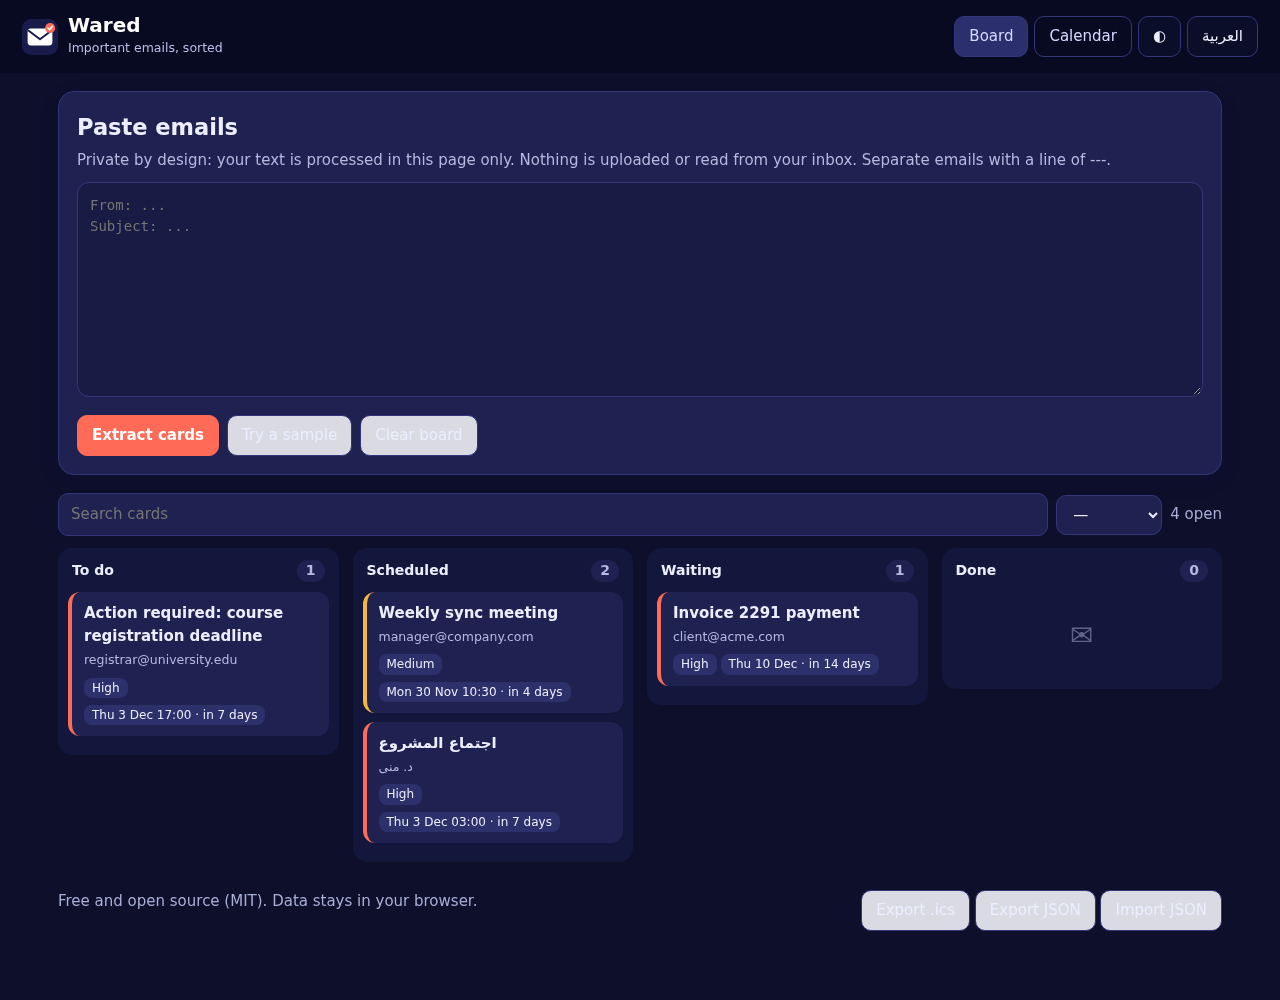
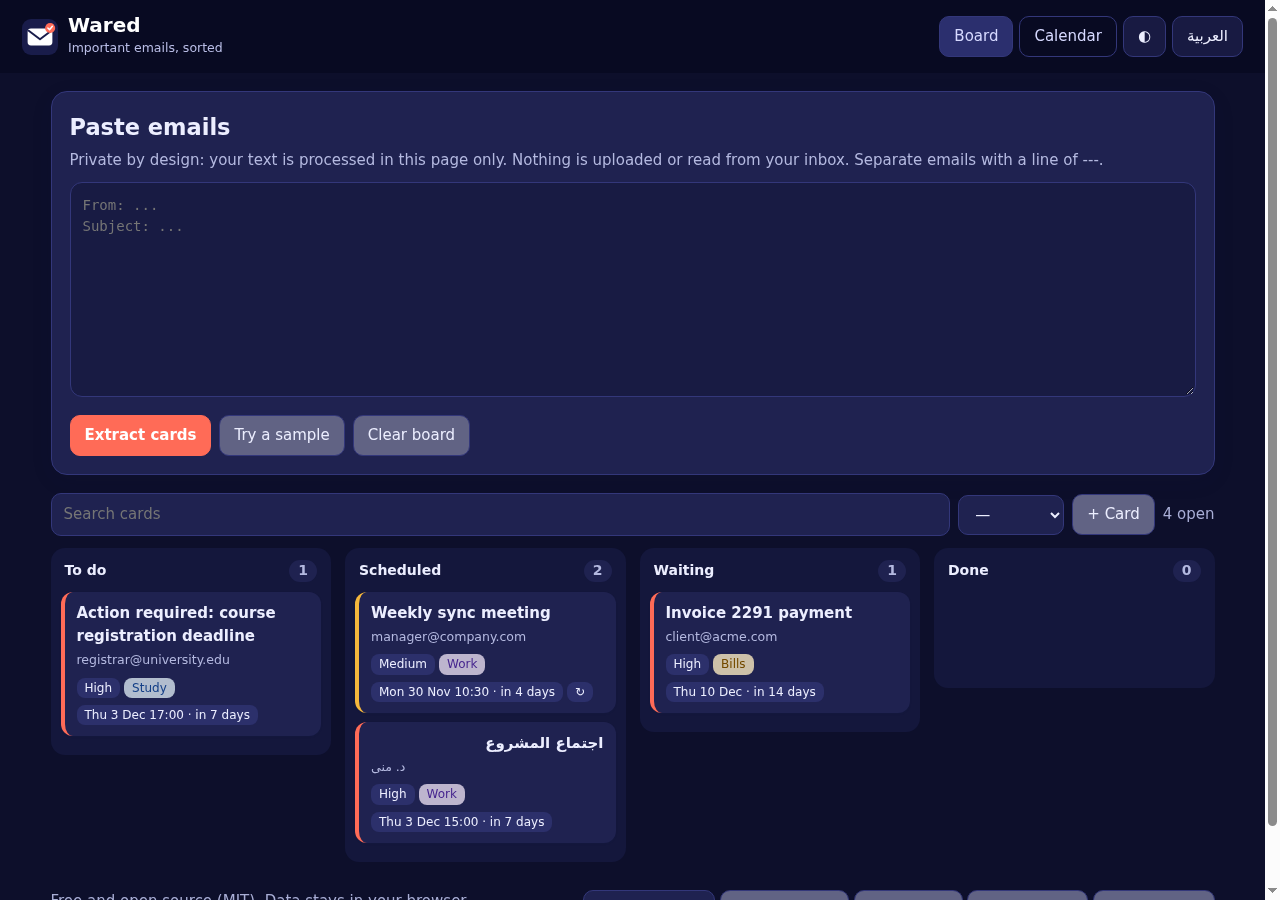
Round 39: refreshed screenshots and README feature list

diff --git a/README.md b/README.md
@@ -20,7 +20,8 @@ Wared reads pasted email text, finds what matters (deadlines, meetings, invoices
 - Detects meeting links (Zoom, Meet, Teams), locations and amounts
 - Priority scoring, noise filter, duplicate skipping, sender names
 - Month calendar, per-card Google Calendar link, `.ics` export with 30-minute alarms
-- Search, priority filter, overdue count, undo, JSON import/export
+- Auto tags (study, bills, health, work), recurring events (RRULE), a "needs attention" strip, a "why this card" explanation
+- Search, priority filter, add by hand, snooze, overdue count, undo, copy agenda as text, JSON import/export, choice of calendar reminder
 - Installable offline PWA, dark mode, print view, keyboard shortcuts (`/`, `n`, `c`)
 - Accessible: skip link, labels, focus rings, screen-reader announcements, reduced motion
 
@@ -36,6 +37,8 @@ git clone https://github.com/yousefkhames/wared
 cd wared/docs && python3 -m http.server 8000   # or just open docs/index.html
 node test/parser.test.js                        # parser tests
 ```
+
+Rounds 11 to 38 (each pushed after a real-browser check in English and Arabic, desktop and phone width): Arabic time forms, sender names, duplicate skipping, urgency sorting, relative due labels, clear-done with undo, shortcuts, print view, proper .ics folding, more date phrases, Outlook and forwarded-mail handling, tags, snooze, recurring events, needs-attention strip, draft autosave, explanations, copy agenda, resilient storage, performance and edge-case tests, accessibility focus handling, hand-added cards, reminder choice, tab title count, and phone layout fixes.
 
 ## Honest limits
 It uses rules, not an AI model, so unusual phrasing can be missed. That is why every card goes through a review step. There is no inbox sync: that would need a Gmail OAuth app and your explicit consent, and it is not built. Dates without a year assume the nearest upcoming one.
